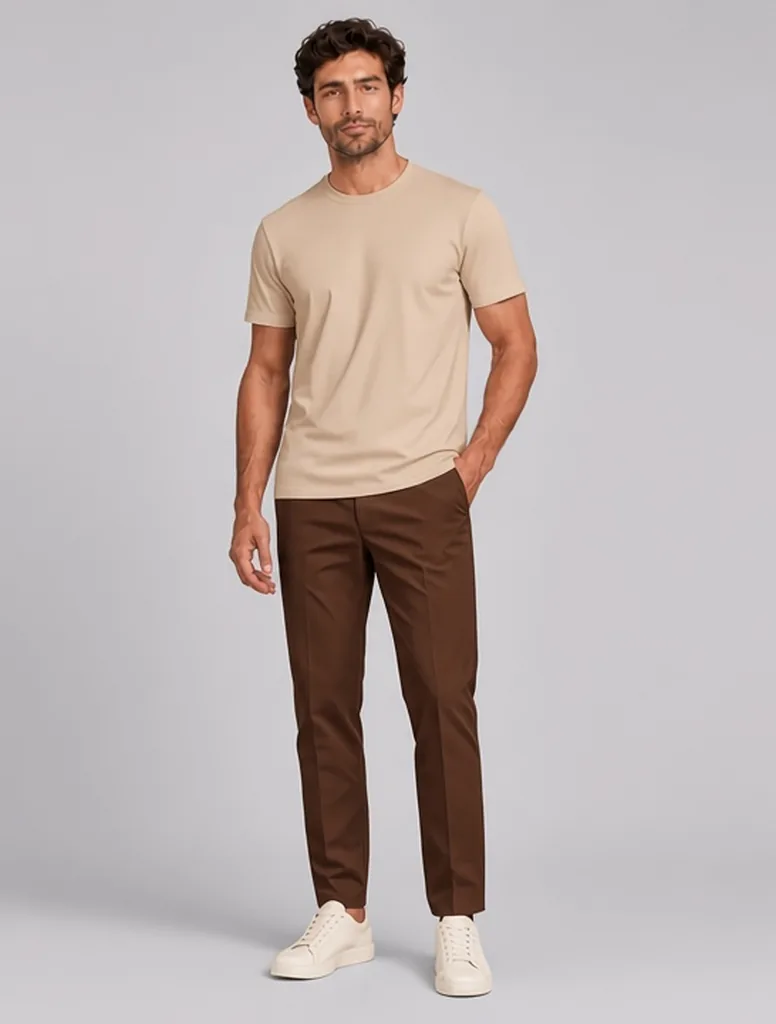
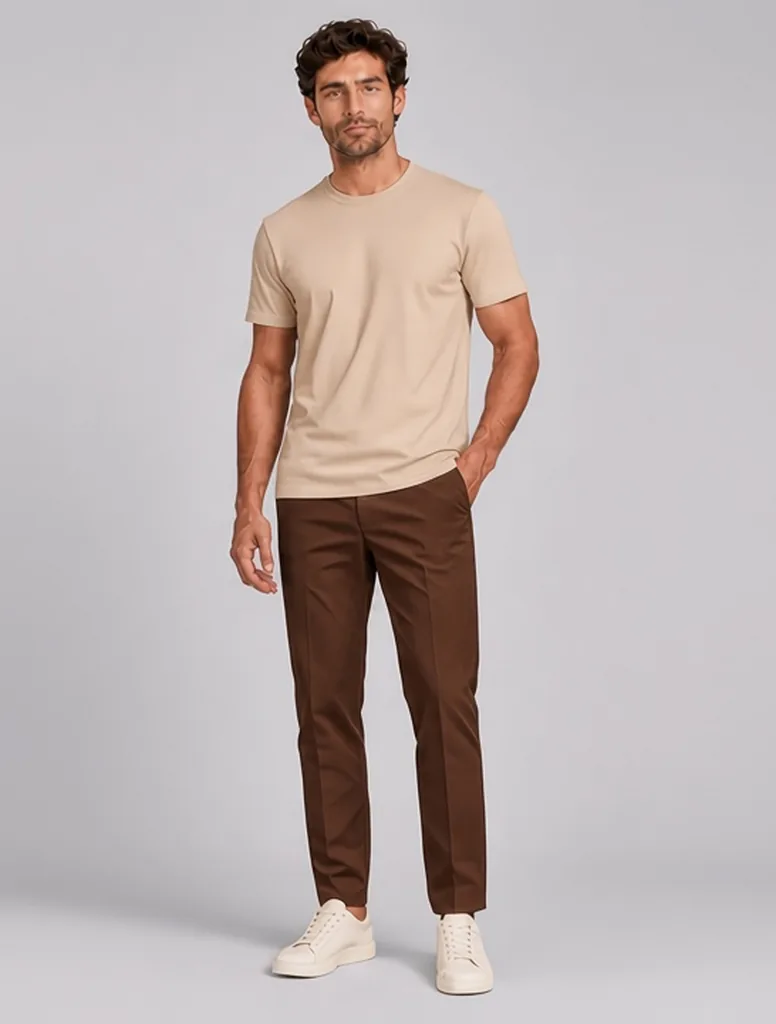
new references and new default

diff --git a/assets/js/combinator.js b/assets/js/combinator.js
@@ -154,7 +154,7 @@
   };
 
   const CASUAL_ONLY_CAMISA = new Set(['verde-militar']);
-  const DEFAULTS = { camisa: 'ferrugem', calca: 'verde-oliva', calcado: 'preto' };
+  const DEFAULTS = { camisa: 'azul-claro', calca: 'bege', calcado: 'branco' };
   const state = { ...DEFAULTS, outfitType: 'camisa-calca', outerwear: null, outerwearColor: null };
   const LOOK_NAME = /^(?:(?<outer>terno|jaqueta|blazer)-(?<outerColor>.+?)-)?(?<top>camisa|camiseta)-(?<topColor>.+)-(?<bottom>calca|shorts|bermuda)-(?<bottomColor>.+)-calcado-(?<shoe>.+?)(?:-\d+)?\.png$/i;
   let gptIndex = new Set();
